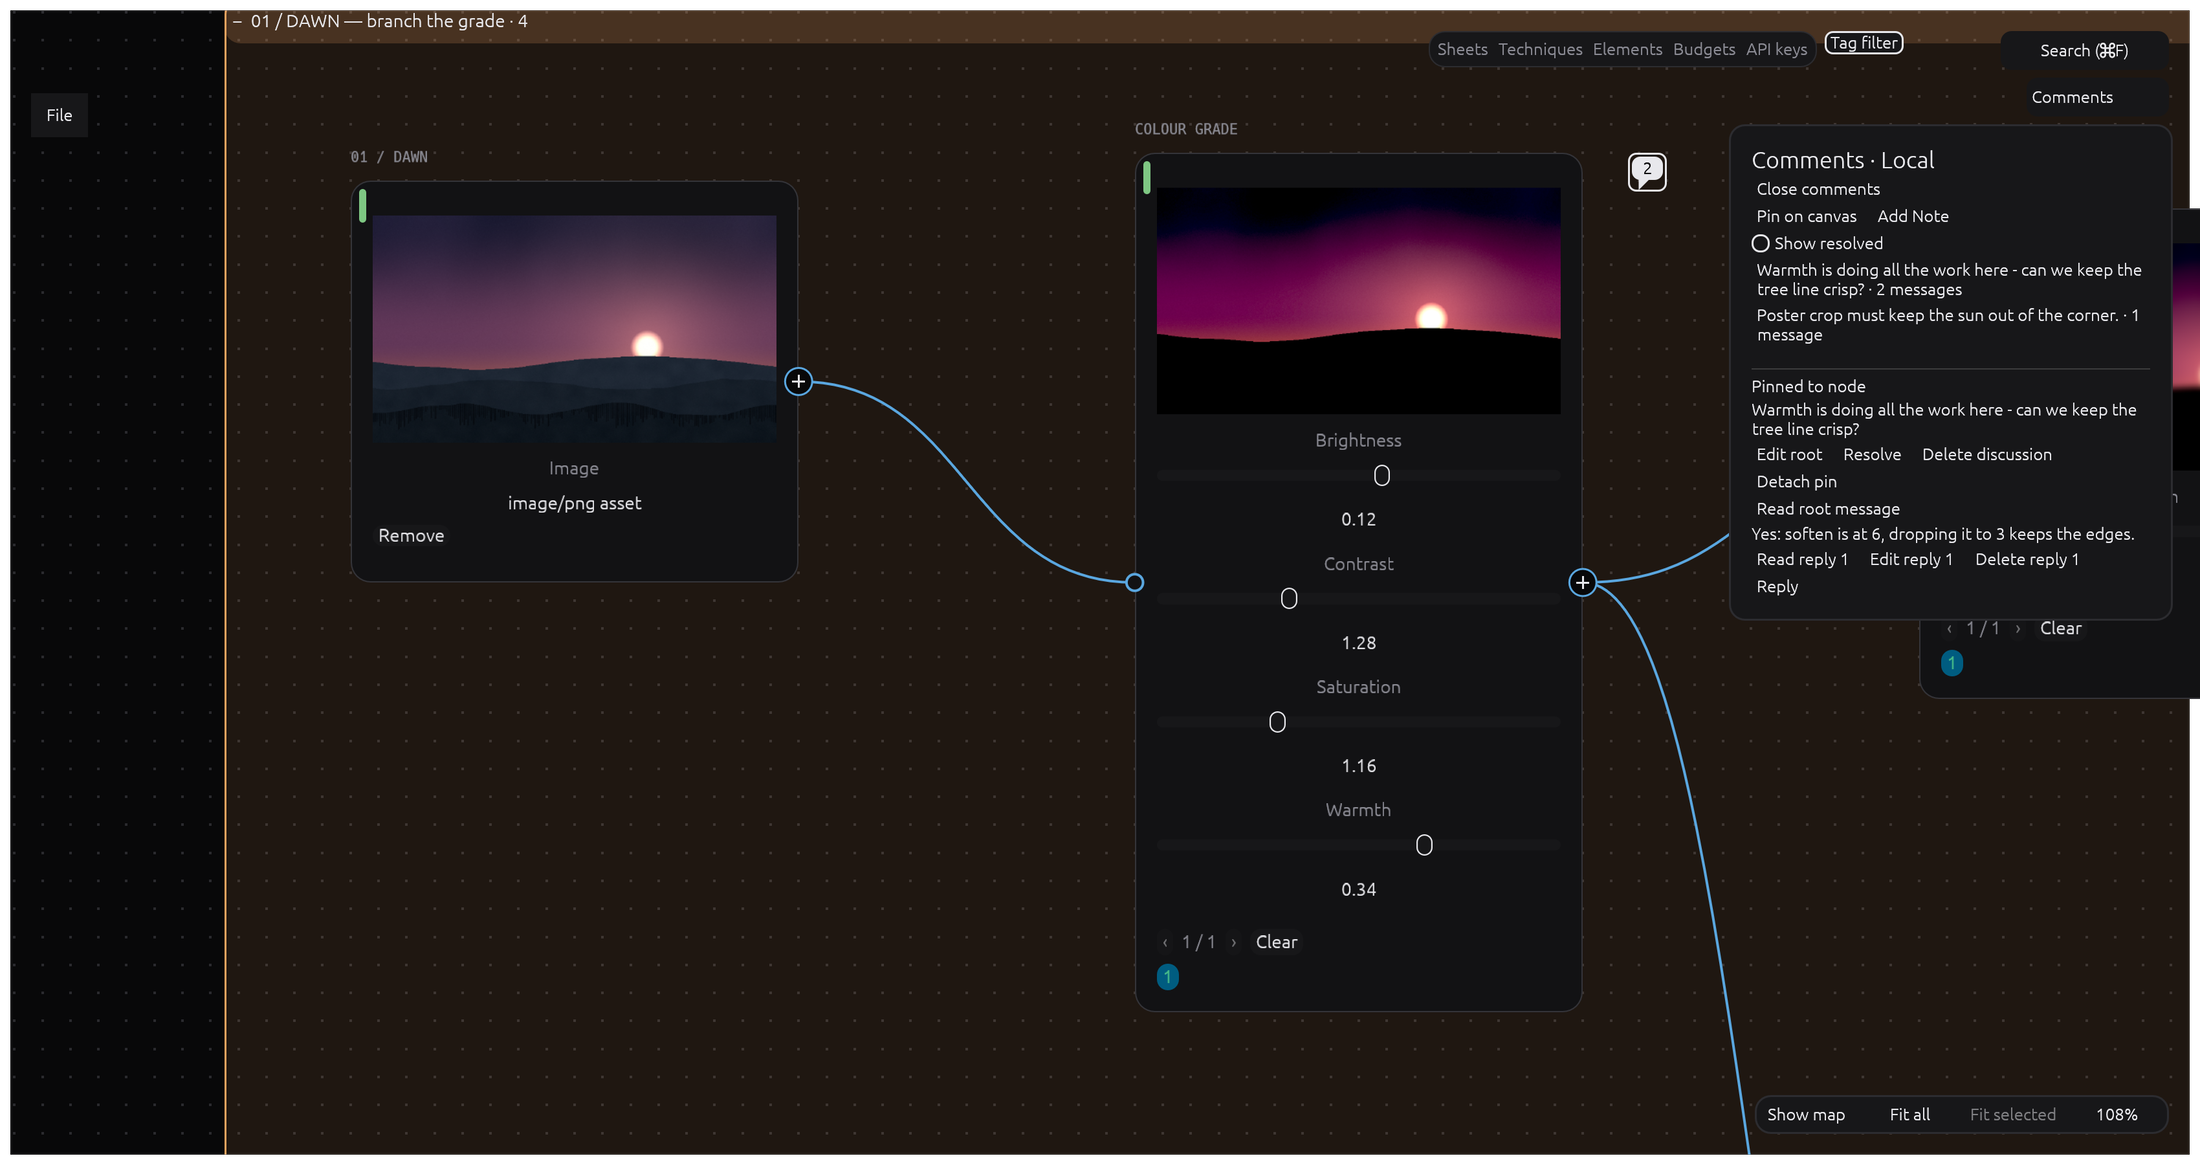
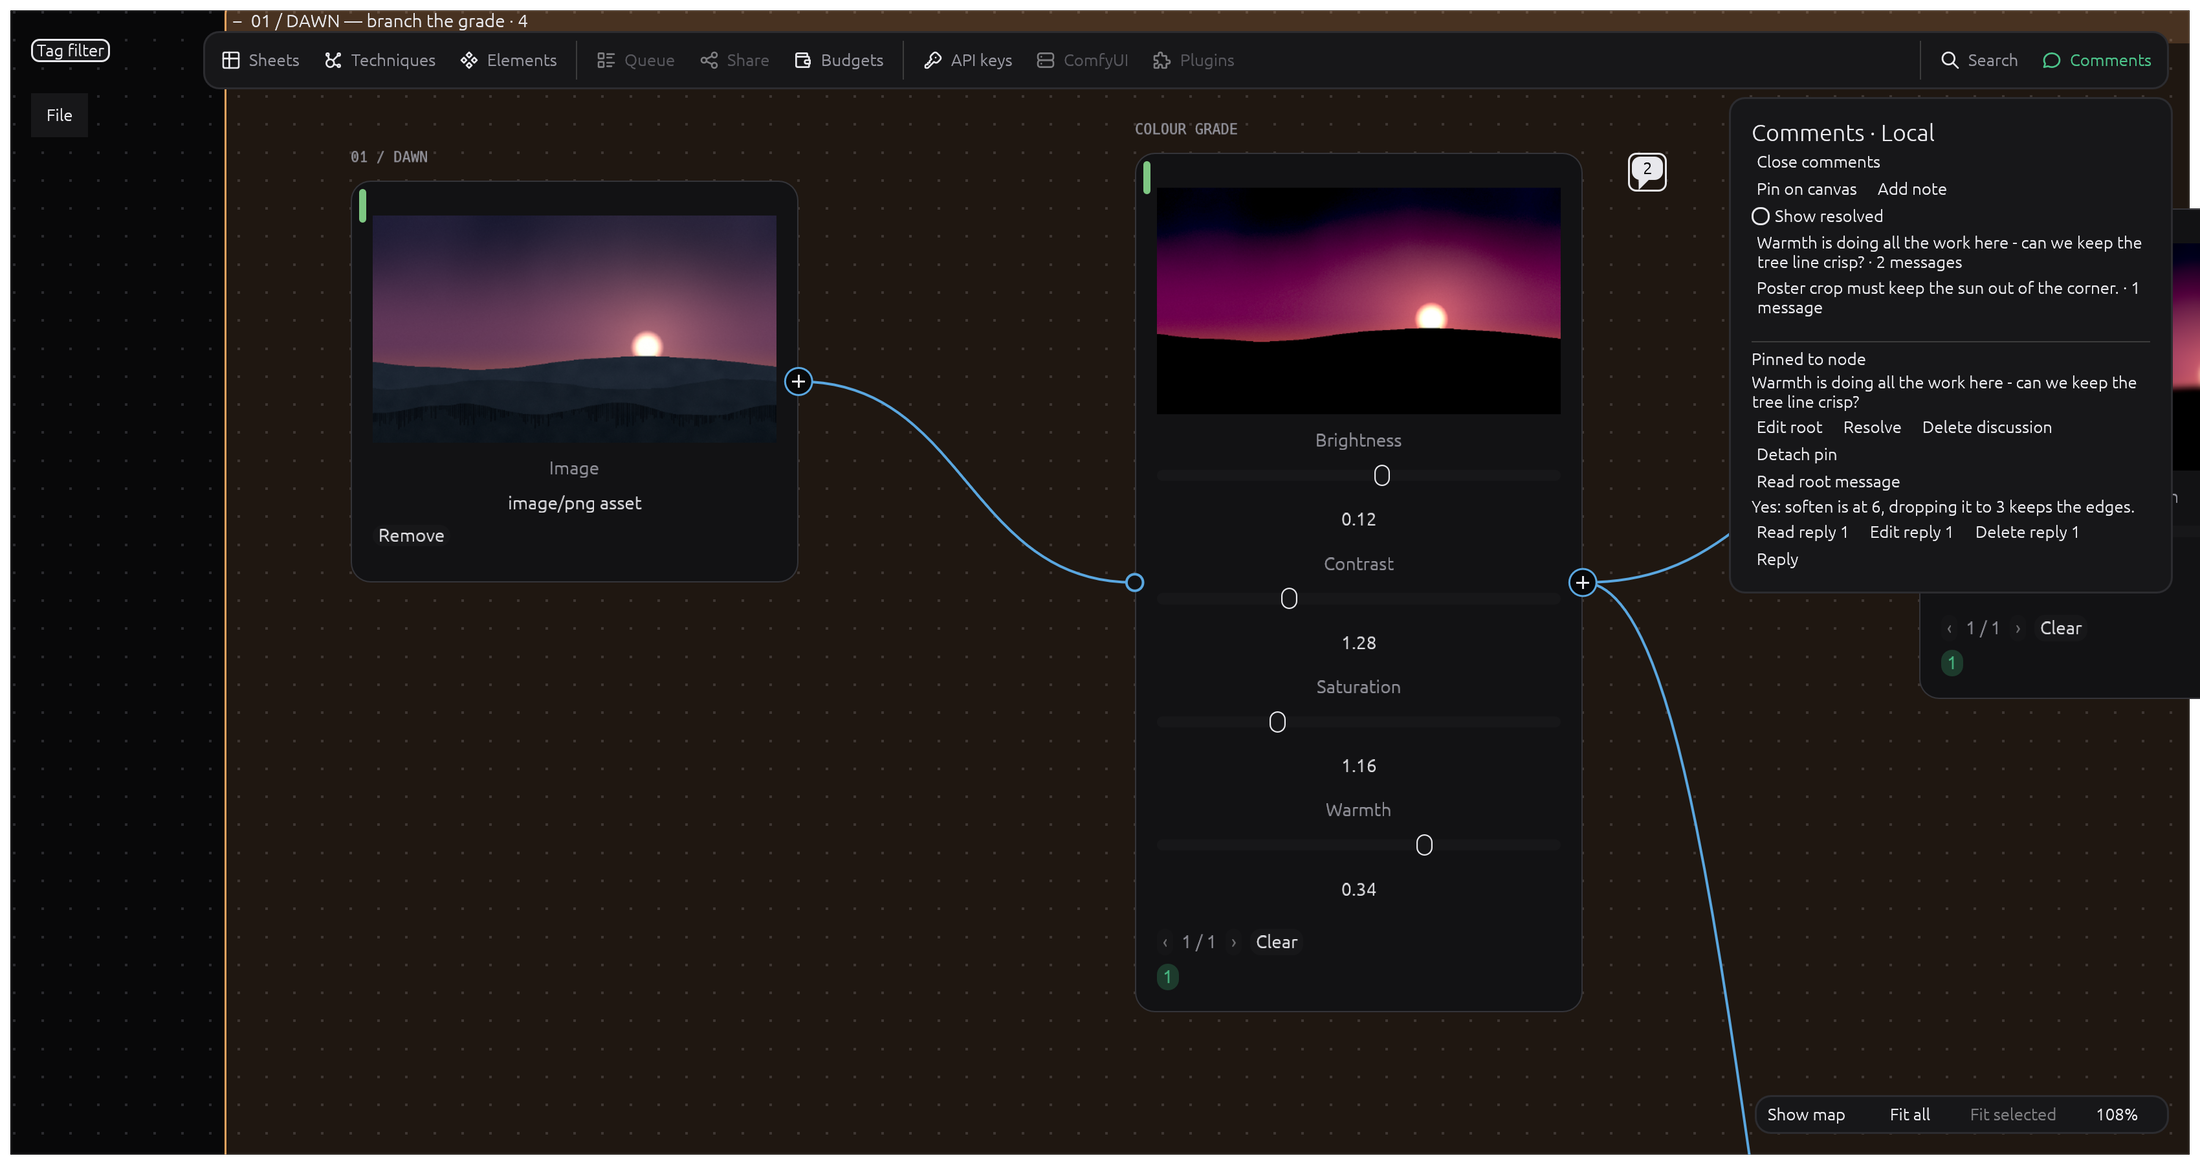
Refresh README gallery frames from the current app
Re-rendered all 13 frames with tools/eyecandy (--shots all, default
scale and width) against the current UI, after 279 UI commits had
landed since the last render. Reviewed every frame against its caption.
Captions: the tag-filter frame highlights Look-tagged cards across the
fields, not only the dawn field.

Claude-Session: https://claude.ai/code/session_01QKNswjqGkZXueLKkHKZ4ev

diff --git a/README.md b/README.md
@@ -144,7 +144,7 @@ node kind, and the CLI and the MCP server create the same card with the same `no
 
 ### Tags, and a filter that highlights what matches
 
-![The tag filter panel highlights the Look-tagged dawn treatment cards inside their coloured field.](assets/readme/tags.png)
+![The tag filter panel lists the canvas tags and highlights the Look-tagged cards across the coloured fields.](assets/readme/tags.png)
 
 Named colour tags per canvas, a bounded highlight filter, and a small colour marker on every
 tagged card.
